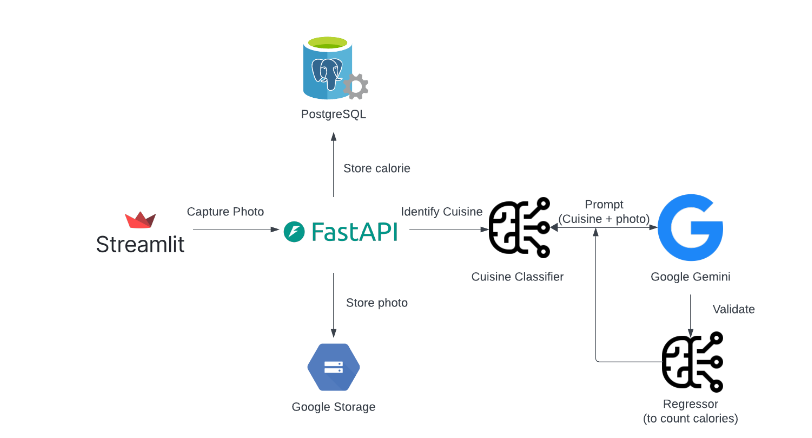
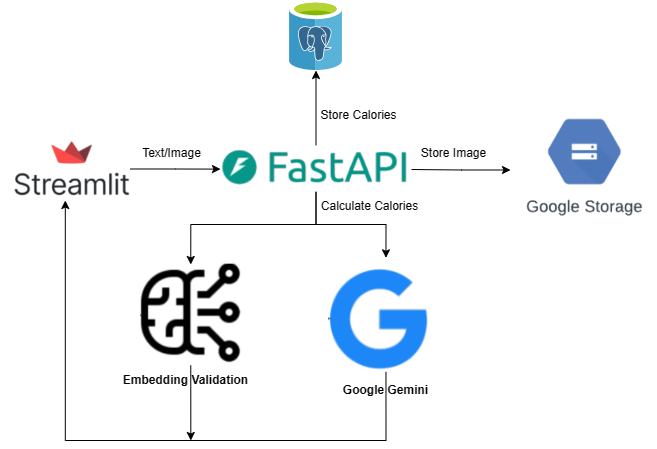
Updating Readme

diff --git a/README.md b/README.md
@@ -2,35 +2,19 @@
 
 The project aims to develop a personalized meal planner application that utilizes data from various sources, including nutritional databases, user input, and meal suggestion algorithms. The application will be developed using modern web and mobile technologies, leveraging frameworks such as React.js for frontend development and Node.js for backend functionality. The expected deliverables include a user-friendly interface for meal planning, calorie tracking features, personalized meal suggestions, and data visualization capabilities.
 
+## Live application:
+
+http://35.237.26.187:8501/Sign_In
+
 ## Documentation
 
 [![codelabs](https://img.shields.io/badge/codelabs-4285F4?style=for-the-badge&logo=codelabs&logoColor=white)](https://codelabs-preview.appspot.com/?file_id=1r6Cg_miHqOiVv43CM6GhOtq1ZWK9lf6mIlYW7VNuSVk)
 
 ## Data Sources
 
-### Food Image Classification Dataset
+### Food.com - Recipes
 
-The dataset contains 24K unique images obtained from various Google resources
-Focuses on 35 varieties of both Indian and Western appetizers
-Meticulously curated images ensuring diversity and representativeness
-Provides a solid foundation for developing robust and precise image classification algorithms
-Encourages exploration in the fascinating field of food image classification
-
-### Foodies AI
-
-This dataset contains a collection of images showcasing various dishes from Indian cuisine. The images cover a wide range of traditional and popular dishes such as naan, dosa, biryani, samosa, and more. Each image is labeled with the name of the dish it represents. The dataset is suitable for tasks such as image classification, object recognition, and culinary research. It can be used by researchers, data enthusiasts, and machine learning practitioners interested in exploring and analyzing Indian culinary heritage.
-
-### CNFood
-
-Contains a dataset of 241 Chinese dishes with 191,811 images. There are 170843 images in the training set and 20943 images in the validation set. All images are resized to 600x600. As some of the images in the dataset are from ChineseFoodNet, they are not supported for commercial use.
-
-### ChineseFoodNet
-
-ChineseFoodNet aims to automatically recognizing pictured Chinese dishes. Most of the existing food image datasets collected food images either from recipe pictures or selfie. In the dataset, images of each food category of the dataset consists of not only web recipe and menu pictures but photos taken from real dishes, recipe and menu as well. ChineseFoodNet contains over 180,000 food photos of 208 categories, with each category covering a large variations in presentations of same Chinese food.
-
-### Calorie Predictor Dataset
-
-A novel food image data set with volume and mass records of foods, and a deep learning method for food detection, to make a complete calorie estimation. The data set includes 2978 images, and every image contains corresponding each food's annotation, volume and mass records, as well as a certain calibration reference. To estimate calorie of food in the proposed data set, a deep learning method using Faster R-CNN first is put forward to detect the food. And the experiment results show our method is effective to estimate calories and our data set contains adequate information for calorie estimation. Our data set is the first released food image data set which can be used to evaluate computer vision-based calorie estimation methods.
+The recipes dataset contains 522,517 recipes from 312 different categories. This dataset provides information about each recipe like cooking times, servings, ingredients, nutrition, instructions, and more.
 
 ## Tools and Technologies:
 
@@ -38,7 +22,7 @@ A novel food image data set with volume and mass records of foods, and a deep le
 - Backend : FastAPI
 - Database : PostGreSQL
 - Cloud : GCP
-- Model Training : PyTorch
+- Create Embeddings: DistilBERT
 - Automation : Airflow
 
 ## Pipelines
@@ -59,10 +43,16 @@ A novel food image data set with volume and mass records of foods, and a deep le
 
 ![Architecture Diagram ](images/4.png)
 
+## Steps to make it run on your machine
+
+- Clone the github repository on local
+- Create env file in ‘./airflow/config’; ‘./backend’; ‘./frontend’; and ‘./’ directories
+- Create a virtual environment using ‘python -m venv ./venv’
+- Make sure you have docker daemon running on your local machine
+- Navigate to the project directory and run ‘docker compose build’ to build the images
+- Then execute ‘docker compose up’ to run the images as containers
+- To stop the running containers press Ctrl + C / Cmd + C and then execute docker compose down to remove the containers as a cleanup step
+
 ## References
 
-- [Food Image Classsification Dataset](https://www.kaggle.com/datasets/gauravduttakiit/food-image-classification)
-- [Foodies AI](https://www.kaggle.com/datasets/jvageesh11/foodies-ai-food-image-classification-challenge)
-- [CNFood](https://paperswithcode.com/dataset/cnfood-241)
-- [ChineseFoodNet](ChineseFoodNet)
-- [Calorie Predictor Dataset](https://github.com/Yiming-Miao/Calorie-Predictor/tree/master/Dataset)
+- [DistilBERT](https://huggingface.co/docs/transformers/model_doc/distilbert)
